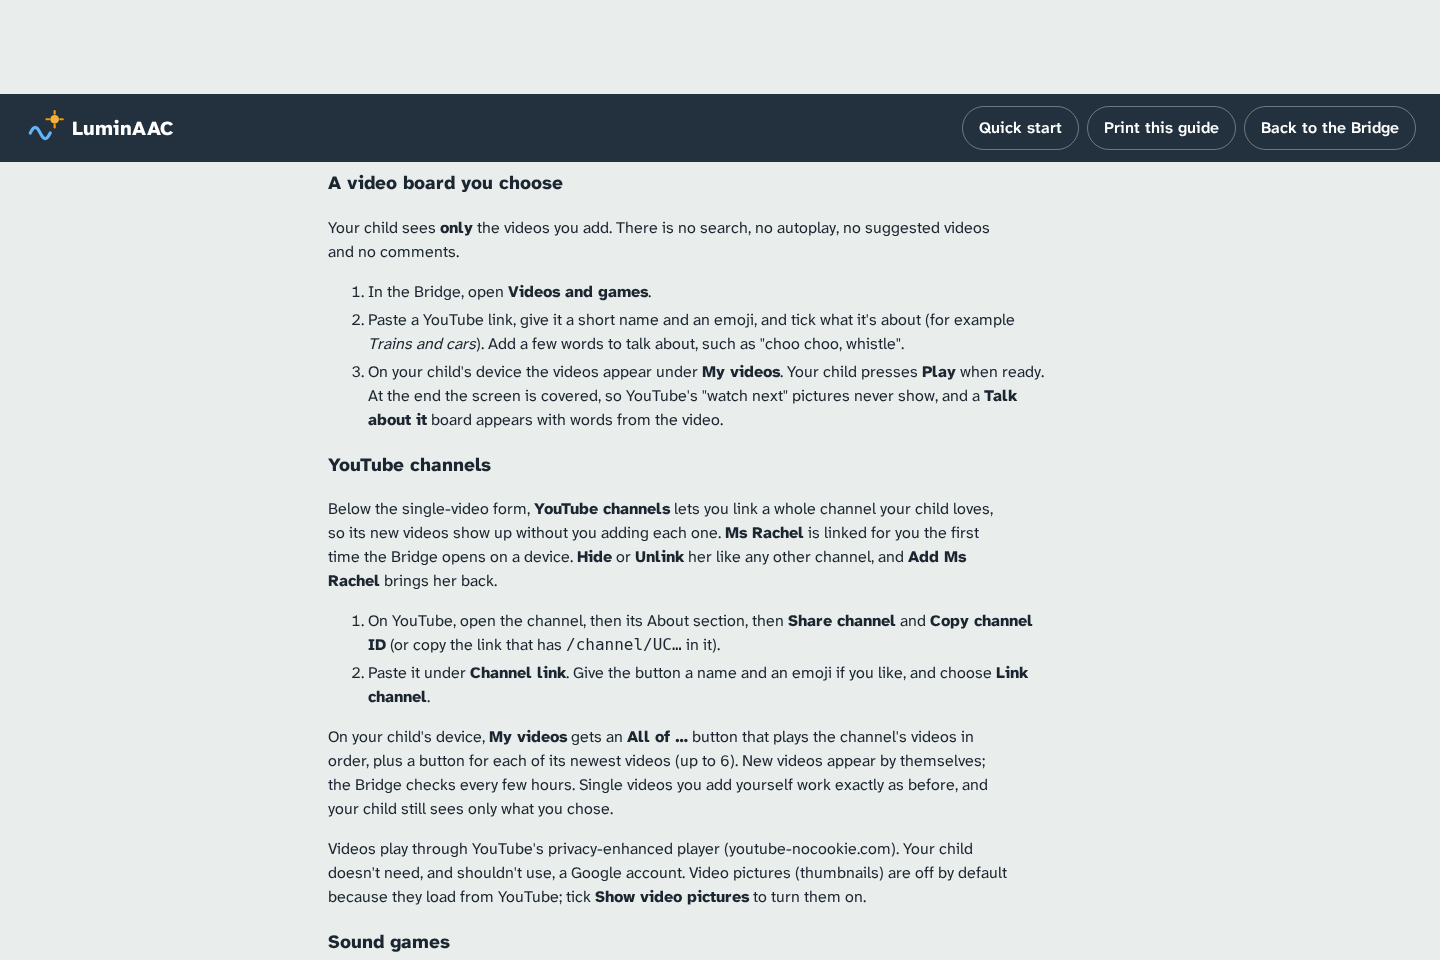
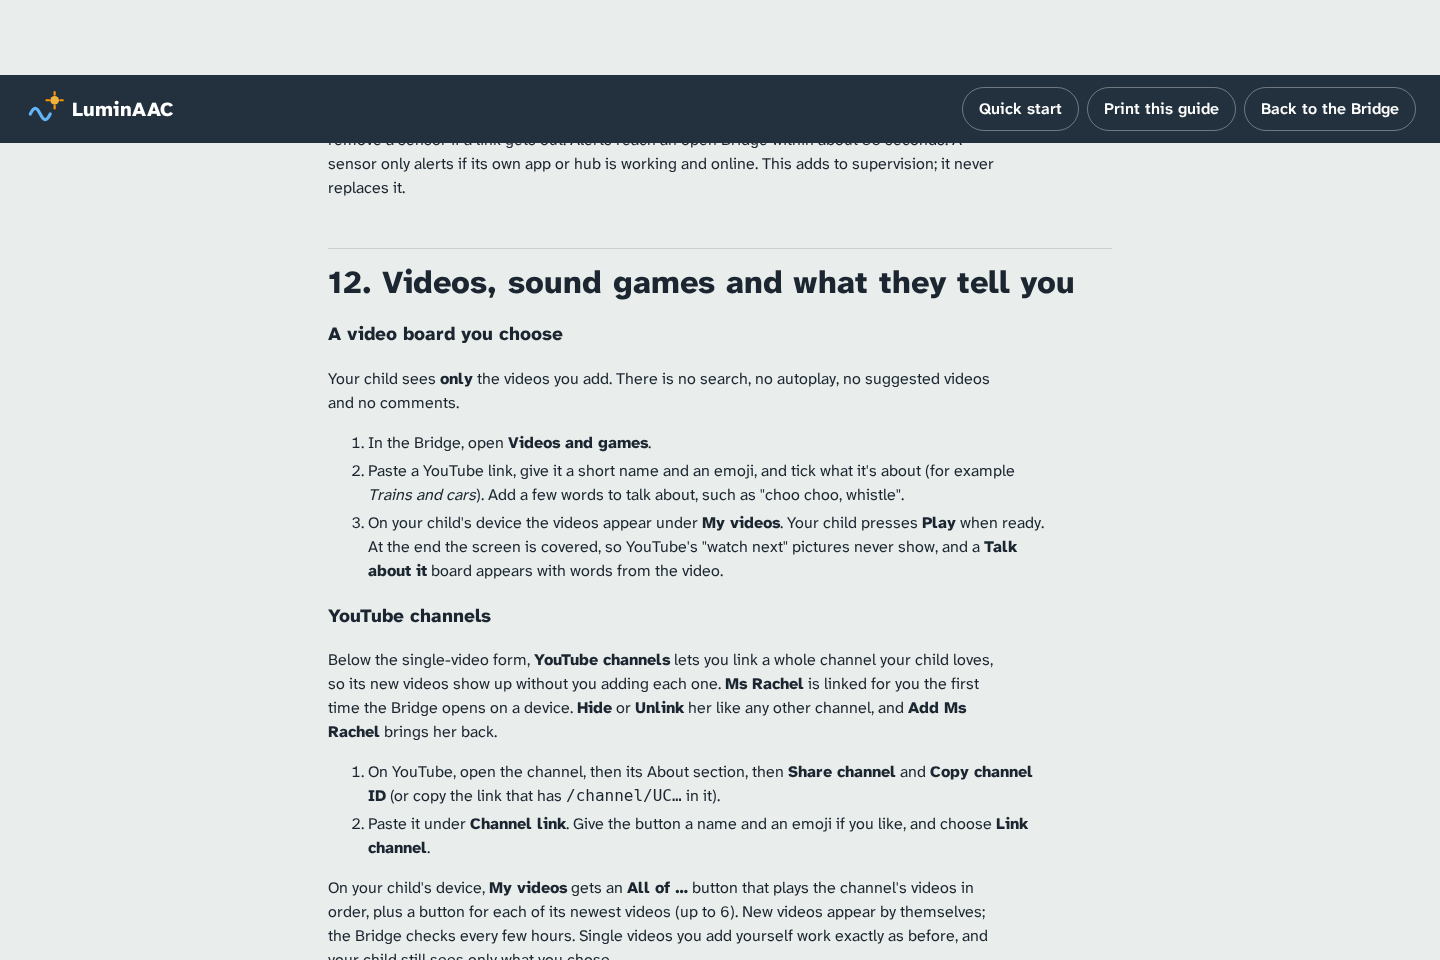
v0.14.1: SW bump; screenshots for notifications, handoff and role views

Changed region(s): [[0.0, 0.0625, 1.0, 1.0]]

diff --git a/sw.js b/sw.js
@@ -6,7 +6,7 @@
 //  • Model weights from the Hugging Face hub are cached by Transformers.js itself
 //    ("transformers-cache"); Human's models are vendored locally under vendor/human.
 //  • The backend API (/api/…) and map tiles are never cached here.
-const VERSION = "luminaac-v0.14.0";
+const VERSION = "luminaac-v0.14.1";
 const SHELL = `${VERSION}-shell`, CDN = `${VERSION}-cdn`;
 const FILES = [
   "./", "index.html", "bridge.html", "guide.html", "guide.css", "manifest.webmanifest", "bridge.webmanifest", "favicon.svg",

diff --git a/README.md b/README.md
@@ -118,7 +118,7 @@ The live app at <https://luminaac-web.vercel.app> is deployed on Vercel from `ma
 - `.vercelignore` keeps `native/`, `tests/`, `docs/`, `backend/test.mjs`, `backend/data/` and Markdown files (except `PRIVACY.md` and `THIRD-PARTY.md`) off public hosting. `screenshots/` is served because the in-app guide shows them.
 - Any static host works for the front end alone. Serve over HTTPS and don't cache `sw.js` long-term. Point the Bridge at your own server under Account and devices.
 
-When you change any shipped file, bump `VERSION` in `sw.js` (currently `luminaac-v0.14.0`) so devices pick up the new copy. When an update takes over, `pwa.js` reloads the Bridge once, and My Voice only while it is out of sight. To rebuild `guide.html` from `docs/CARETAKER-GUIDE.md`, run `python3 tools/mkguide.py` (needs the Python `markdown` package).
+When you change any shipped file, bump `VERSION` in `sw.js` (currently `luminaac-v0.14.1`) so devices pick up the new copy. When an update takes over, `pwa.js` reloads the Bridge once, and My Voice only while it is out of sight. To rebuild `guide.html` from `docs/CARETAKER-GUIDE.md`, run `python3 tools/mkguide.py` (needs the Python `markdown` package).
 
 ### Backend (optional)
 
